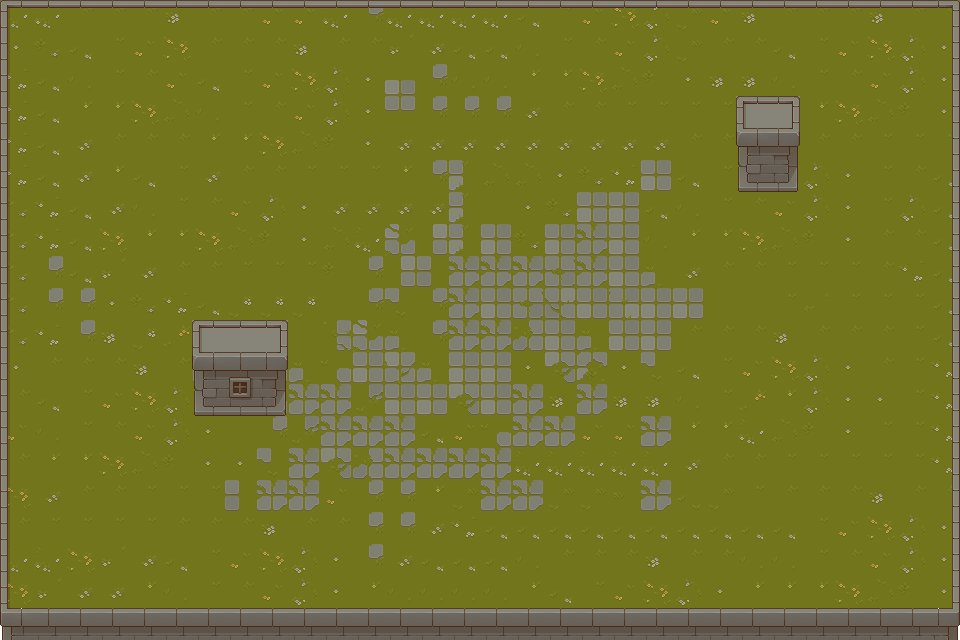
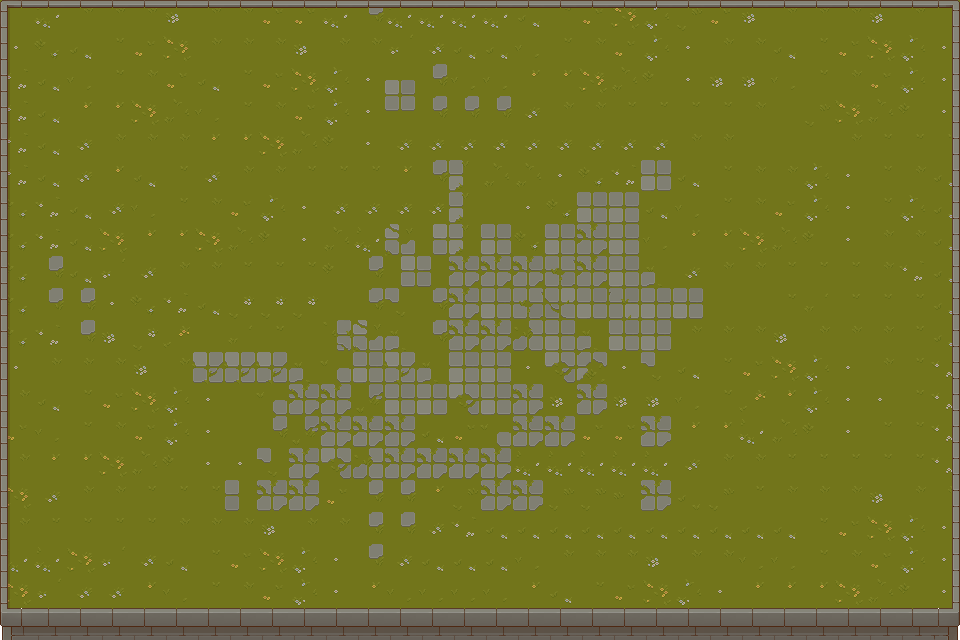
udwawdadw

Changed region(s): [[0.1875, 0.5, 0.3125, 0.6562], [0.75, 0.125, 0.8438, 0.3125]]

diff --git a/arena/src/game.cpp b/arena/src/game.cpp
@@ -1,10 +1,11 @@
 #include "game.h"
-#include "prop.h"
 #include "raylib.h"
 
-#include "character.h"
 #include "static.h"
 #include "window.h"
+
+#include "character.h"
+#include "props.h"
 
 void Game::setup() {
   InitWindow(width, height, title);
@@ -15,25 +16,14 @@ void Game::setup() {
 
   backgrounds.setup_backgrounds();
   character.setup();
-
-  Prop red_prop{Rectangle{.x = 0, .y = 0.f, .width = 380.f, .height = 400.f},
-                Vector2{.x = 770.f, .y = 1280.f}};
-
-  Prop red_prop_2{
-      Rectangle{.x = 0.f, .y = 0.f, .width = 250.f, .height = 400.f},
-      Vector2{.x = 2000.f, .y = 800.f}};
-
-  this->props.push_back(red_prop);
-  this->props.push_back(red_prop_2);
+  props.setup();
+  props.setup();
 };
 
 void Game::clean_up() {
   backgrounds.clean_up_backgrounds();
   character.clean_up();
-
-  for (Prop prop : this->props) {
-    prop.clean_up();
-  }
+  props.clean_up();
 
   CloseWindow();
 }
@@ -71,9 +61,7 @@ void Game::runtime() {
   backgrounds.render_backgrounds(this->character.texture,
                                  this->character.position);
   character.render_character();
-  for (Prop prop : this->props) {
-    prop.render(this->character.position, this->backgrounds.primary.position);
-  }
+  props.render(this->character.position, this->backgrounds.primary.position);
 
   character.handle_controller(&backgrounds);
 

diff --git a/arena/src/prop.cpp b/arena/src/prop.cpp
@@ -2,21 +2,16 @@
 #include <raylib.h>
 #include <raymath.h>
 
-Prop::Prop(Rectangle rectangle, Vector2 position)
-    : rectangle(rectangle), position(position) {}
+Prop::Prop(Texture2D texture, Vector2 position)
+    : texture(texture), position(position) {}
 
 void Prop::render(Vector2 character_position, Vector2 world_position) {
-  Vector2 new_position = Vector2Add(this->position, Vector2Subtract(world_position, character_position));
+  Vector2 new_position = Vector2Add(
+      this->position, Vector2Subtract(world_position, character_position));
   this->position = new_position;
 
-  DrawRectangle(this->position.x, this->position.y, this->rectangle.width,
-                this->rectangle.height, RED);
+  DrawTextureEx(this->texture, this->position, this->rotation, this->scale,
+                RAYWHITE);
 }
 
-void Prop::clean_up() {
-  // if (this->texture) {
-  //   return;
-  // }
-  //
-  // UnloadTexture(this->texture);
-}
+void Prop::clean_up() { UnloadTexture(this->texture); }

diff --git a/arena/src/props.cpp b/arena/src/props.cpp
@@ -1,0 +1,28 @@
+#include "props.h"
+#include "prop.h"
+#include <raylib.h>
+
+Props::Props() {}
+
+void Props::setup() {
+  Texture2D obstacle_01_texture = LoadTexture("assets/obstacle-02.png");
+  Texture2D obstacle_02_texture = LoadTexture("assets/obstacle-01.png");
+
+  Prop obstacle_01{obstacle_01_texture, Vector2{.x = 770.f, .y = 1280.f}};
+  Prop obstacle_02{obstacle_02_texture, Vector2{.x = 2950.f, .y = 390.f}};
+
+  this->props.push_back(obstacle_01);
+  this->props.push_back(obstacle_02);
+}
+
+void Props::clean_up() {
+  for (Prop prop : this->props) {
+    prop.clean_up();
+  }
+}
+
+void Props::render(Vector2 character_position, Vector2 world_position) {
+  for (Prop prop : this->props) {
+    prop.render(character_position, world_position);
+  }
+}

diff --git a/arena/src/game.h b/arena/src/game.h
@@ -1,12 +1,13 @@
 #ifndef GAME_H
 #define GAME_H
 
-#include "prop.h"
 #include "raylib.h"
 
 #include "background.h"
-#include "character.h"
 #include "window.h"
+
+#include "character.h"
+#include "props.h"
 
 struct Game {
   bool playing{true};
@@ -17,8 +18,8 @@ struct Game {
   float *window_height = &height;
 
   Character character{{.width = window_width, .height = window_height}};
-  std::vector<Prop> props{};
   Backgrounds backgrounds;
+  Props props{};
 
   void setup();
   void clean_up();

diff --git a/arena/src/prop.h b/arena/src/prop.h
@@ -6,15 +6,16 @@
 
 struct Prop {
 public:
-  Prop(Rectangle rectangle, Vector2 positon);
+  Prop(Texture2D texture, Vector2 positon);
   void render(Vector2 character_position, Vector2 world_position);
   void clean_up();
 
 private:
-  Rectangle rectangle{};
+  Texture2D texture{};
   Vector2 position{};
 
   float scale{BASE_SCALE};
+  float rotation{0.f};
 };
 
 #endif // !PROP

diff --git a/arena/src/props.h b/arena/src/props.h
@@ -1,0 +1,20 @@
+#ifndef PROPS
+#define PROPS
+
+#include "prop.h"
+#include <vector>
+
+struct Props {
+public:
+  Props();
+
+  void clean_up();
+  void setup();
+
+  void render(Vector2 character_position, Vector2 world_position);
+
+private:
+  std::vector<Prop> props;
+};
+
+#endif // !PROPS
